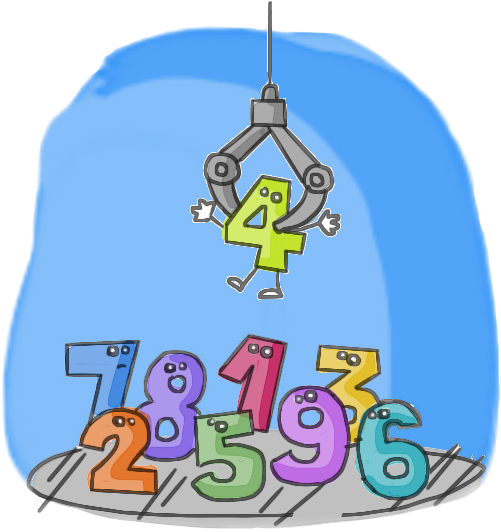
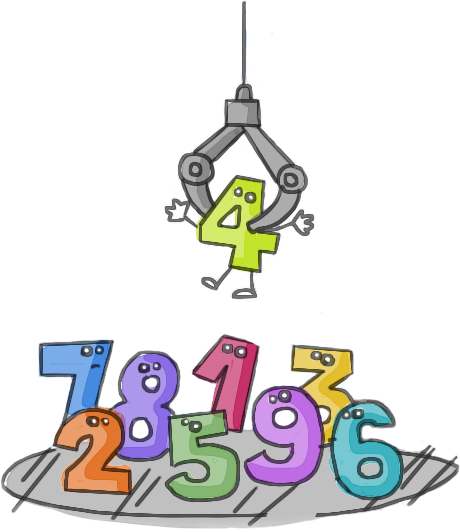
modificações: tipo da fonte, imagem, cores, transições, opacidade e posicionamento

diff --git a/style.css b/style.css
@@ -1,51 +1,56 @@
 * {
   margin: 0;
   padding: 0;
-  font-family: Verdana, Geneva, Tahoma, sans-serif;
+  font-family: 'Titillium Web', sans-serif;
 }
 
 body {
-  max-width: 992px;
-  min-height: 992px;
-  background: #07200f;
-  background: -webkit-linear-gradient(top left, #07200f, #242238);
-  background: -moz-linear-gradient(top left, #07200f, #242238);
-  background: linear-gradient(to bottom right, #07200f, #242238);
-  color: #fff;
+  background: #10692c1e;
+  background-image: url('img/bg_numeros.png');
+
+  background-position: 5rem 0 5rem 0;
+  background-repeat: no-repeat;
+  background-position: center 3.5rem;
 }
 
-img {
-  background-image: url('img/bg_numeros.png');
-  background-repeat: no-repeat;
-  background-size: 670px;
+.title {
+  display: flex;
+  justify-content: center;
+  align-items: center;
   margin: auto;
+  color: #1d6449;
 }
 
 h1 {
   display: flex;
   justify-content: center;
   align-items: center;
-  margin: auto;
+  font-size: 2.5em;
 }
 
 .text-input {
-  display: flex;
-  flex-direction: column;
-  justify-content: center;
-  align-items: center;
   text-align: center;
-  padding-bottom: 3px;
-}
-
-.text-input .input {
-  display: flex;
-  justify-content: center;
-  align-items: center;
-  margin: 5rem 0;
+  padding-top: 2rem;
 }
 
 .text-input h3 {
-  padding: 10px 0;
+  padding: 1rem;
+}
+
+.box {
+  display: flex;
+  justify-content: center;
+  align-items: center;
+  flex-direction: column;
+  background-color: #699bf6;
+  width: 80%;
+  height: 100%;
+  border-radius: 2px;
+  margin: auto;
+  color: #99ff8f;
+}
+.box:hover {
+  opacity: 0.9;
 }
 
 #outDica {
@@ -55,8 +60,9 @@ h1 {
   margin: auto;
   color: #99ff8f;
 }
+
 .input {
-  color: #fff;
+  color: #1900ff;
   font-size: 1.2rem;
 }
 
@@ -66,7 +72,6 @@ input {
   caret-color: #699bf6;
   outline-color: #1900ff;
   color: #1900ff;
-  width: 100%;
   padding: 0.3rem 0;
   margin-left: 0.4rem;
   border: 1px solid lightgray;
@@ -78,11 +83,31 @@ input:hover {
   background-color: lightgray;
 }
 
+.number {
+  padding-bottom: 2rem;
+  color: #1900ff;
+  font-family: cursive;
+  font-size: 1.6rem;
+}
+
+.container-inputs {
+  display: flex;
+  justify-content: center;
+  align-items: center;
+}
+
+#inNumero {
+  width: 9rem;
+  text-align: center;
+  font-weight: 600;
+  font-size: 16px;
+}
+
 #btApostar {
   flex-direction: row;
   background: #464c84;
   color: #fff;
-  width: 100%;
+  width: 7rem;
   padding: 0.3rem 0;
   border: 1px solid lightgray;
   border-radius: 2px;
@@ -91,6 +116,7 @@ input:hover {
 }
 #btApostar:hover {
   transition: 1s;
+  border: 2px solid #464c8456;
   background: -webkit-linear-gradient(top left, #464c84, #9b9da4);
   background: -moz-linear-gradient(top left, #464c84, #9b9da4);
   background: linear-gradient(to bottom right, #464c84, #9b9da4);
@@ -100,7 +126,7 @@ input:hover {
   flex-direction: row;
   background-color: #1c6348;
   color: #fff;
-  width: 100%;
+  width: 9rem;
   padding: 0.3rem 0.3rem;
   border: 1px solid lightgray;
   border-radius: 2px;
@@ -109,9 +135,23 @@ input:hover {
 }
 #btJogar:hover {
   transition: 1s;
+  border: 2px solid #464c8456;
   background: -webkit-linear-gradient(top left, #1d6449, #a27ecb);
   background: -moz-linear-gradient(top left, #1d6449, #a27ecb);
   background: linear-gradient(to bottom right, #1d6449, #a27ecb);
+}
+
+#outErros {
+  color: #fff;
+}
+
+#outChances {
+  color: #fff;
+}
+
+.dica {
+  color: #fff;
+  margin-left: 4px;
 }
 
 pre {

diff --git a/index.html b/index.html
@@ -6,17 +6,21 @@
     <meta name="viewport" content="width=device-width, initial-scale=1.0" />
     <title>Descubra o Número</title>
     <link rel="stylesheet" href="style.css" />
+    <link rel="preconnect" href="https://fonts.googleapis.com">
+    <link rel="preconnect" href="https://fonts.gstatic.com" crossorigin>
+    <link href="https://fonts.googleapis.com/css2?family=Titillium+Web:wght@300;400&display=swap" rel="stylesheet">
   </head>
   <body>
-    <img src="" alt="" />
-    <header>
+    <!-- <img src="img/bg_numeros.png" alt="" /> -->
+    <header class="title">
       <h1>Descubra o Número</h1>
     </header>
 
     <div class="flex-container">
       <div class="text-input">
         <p class="input">
-          Número:
+          <p class="number">Digite um número:</p>
+          <div class="container-inputs">
           <input type="text" id="inNumero" autofocus />
           <input type="button" value="Apostar" id="btApostar" />
           <input
@@ -25,10 +29,12 @@
             id="btJogar"
             class="oculta"
           />
+          </div>
         </p>
       </div>
 
       <div class="text-input">
+        <div class="box">
         <h3 class="erros">
           Erros:
           <span id="outErros">0</span>
@@ -39,7 +45,8 @@
           <span id="outChances">6</span>
         </h3>
 
-        <h3 id="outDica">Dica: É um número entre 1 e 100</h3>
+        <h3 id="outDica">Dica: <span class="dica"> É um número entre 1 e 100</span></h3>
+      </div>
       </div>
     </div>
     <script src="main.js"></script>
